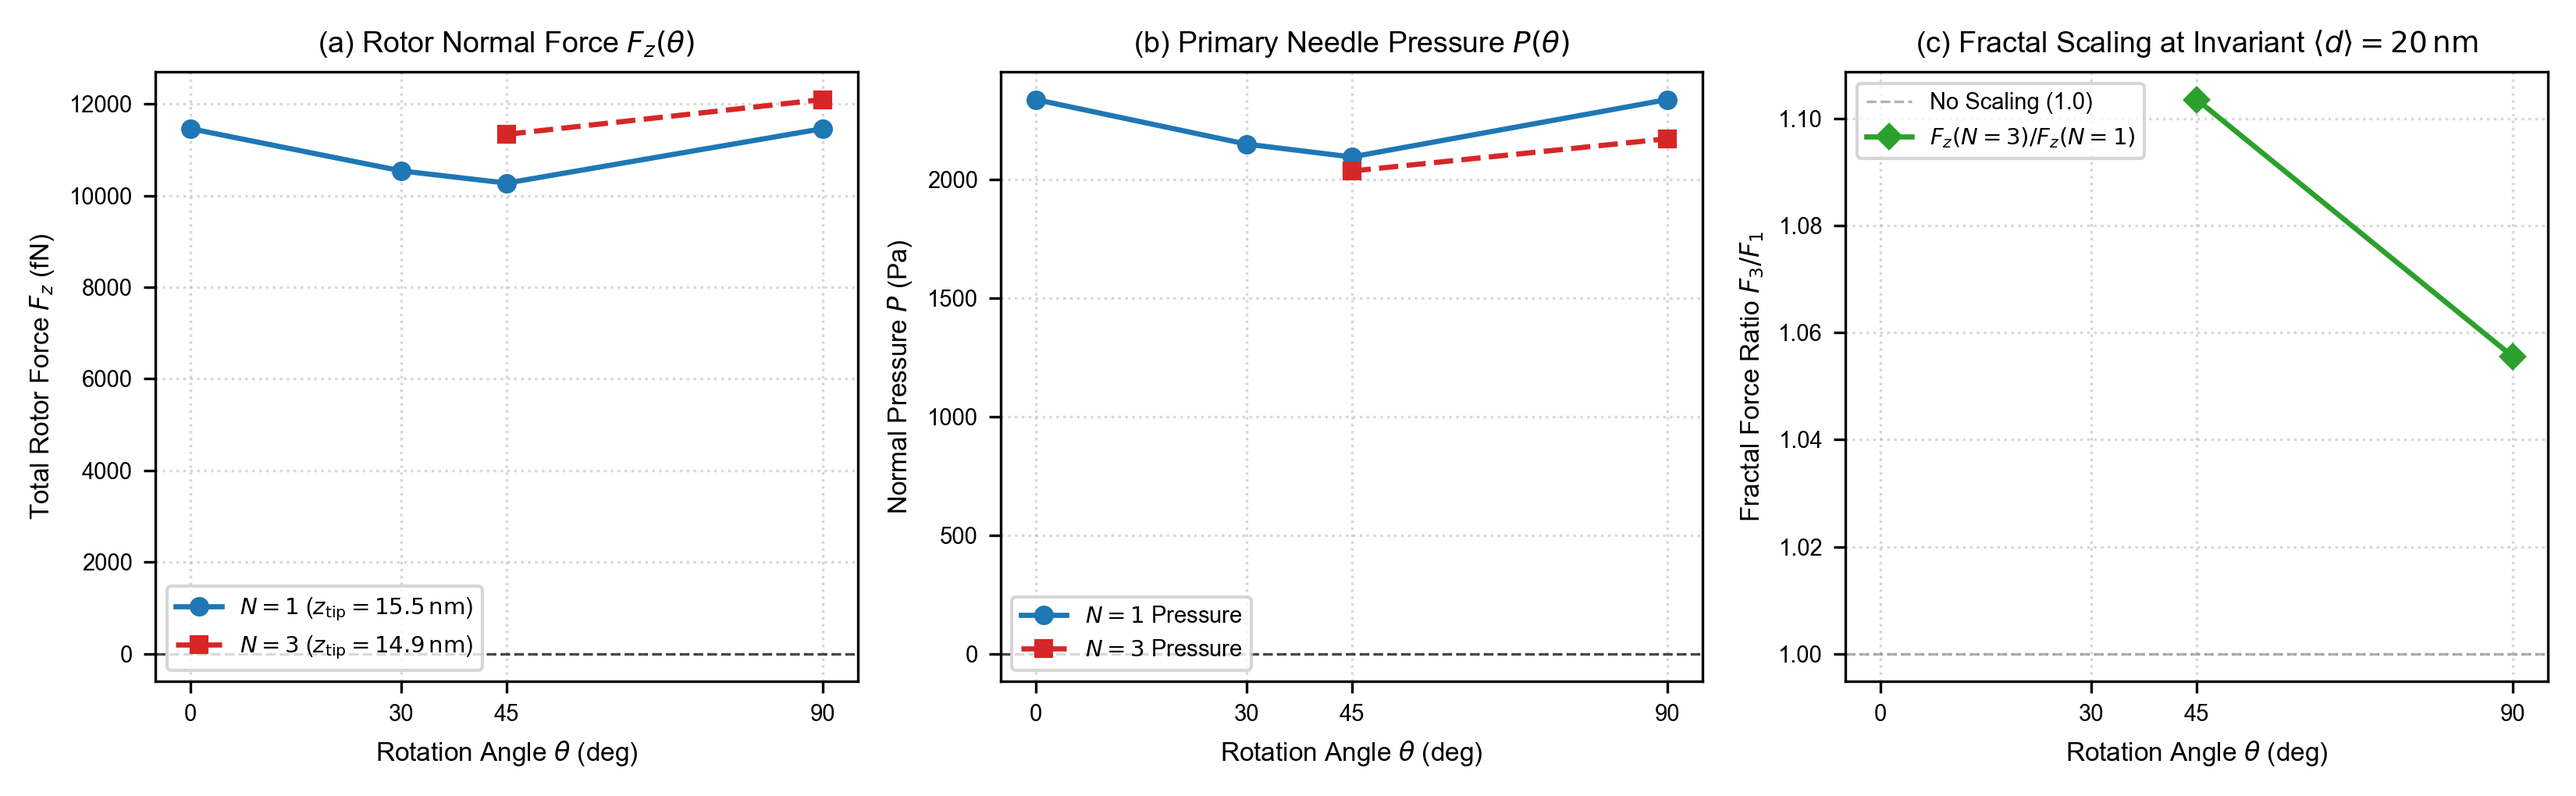
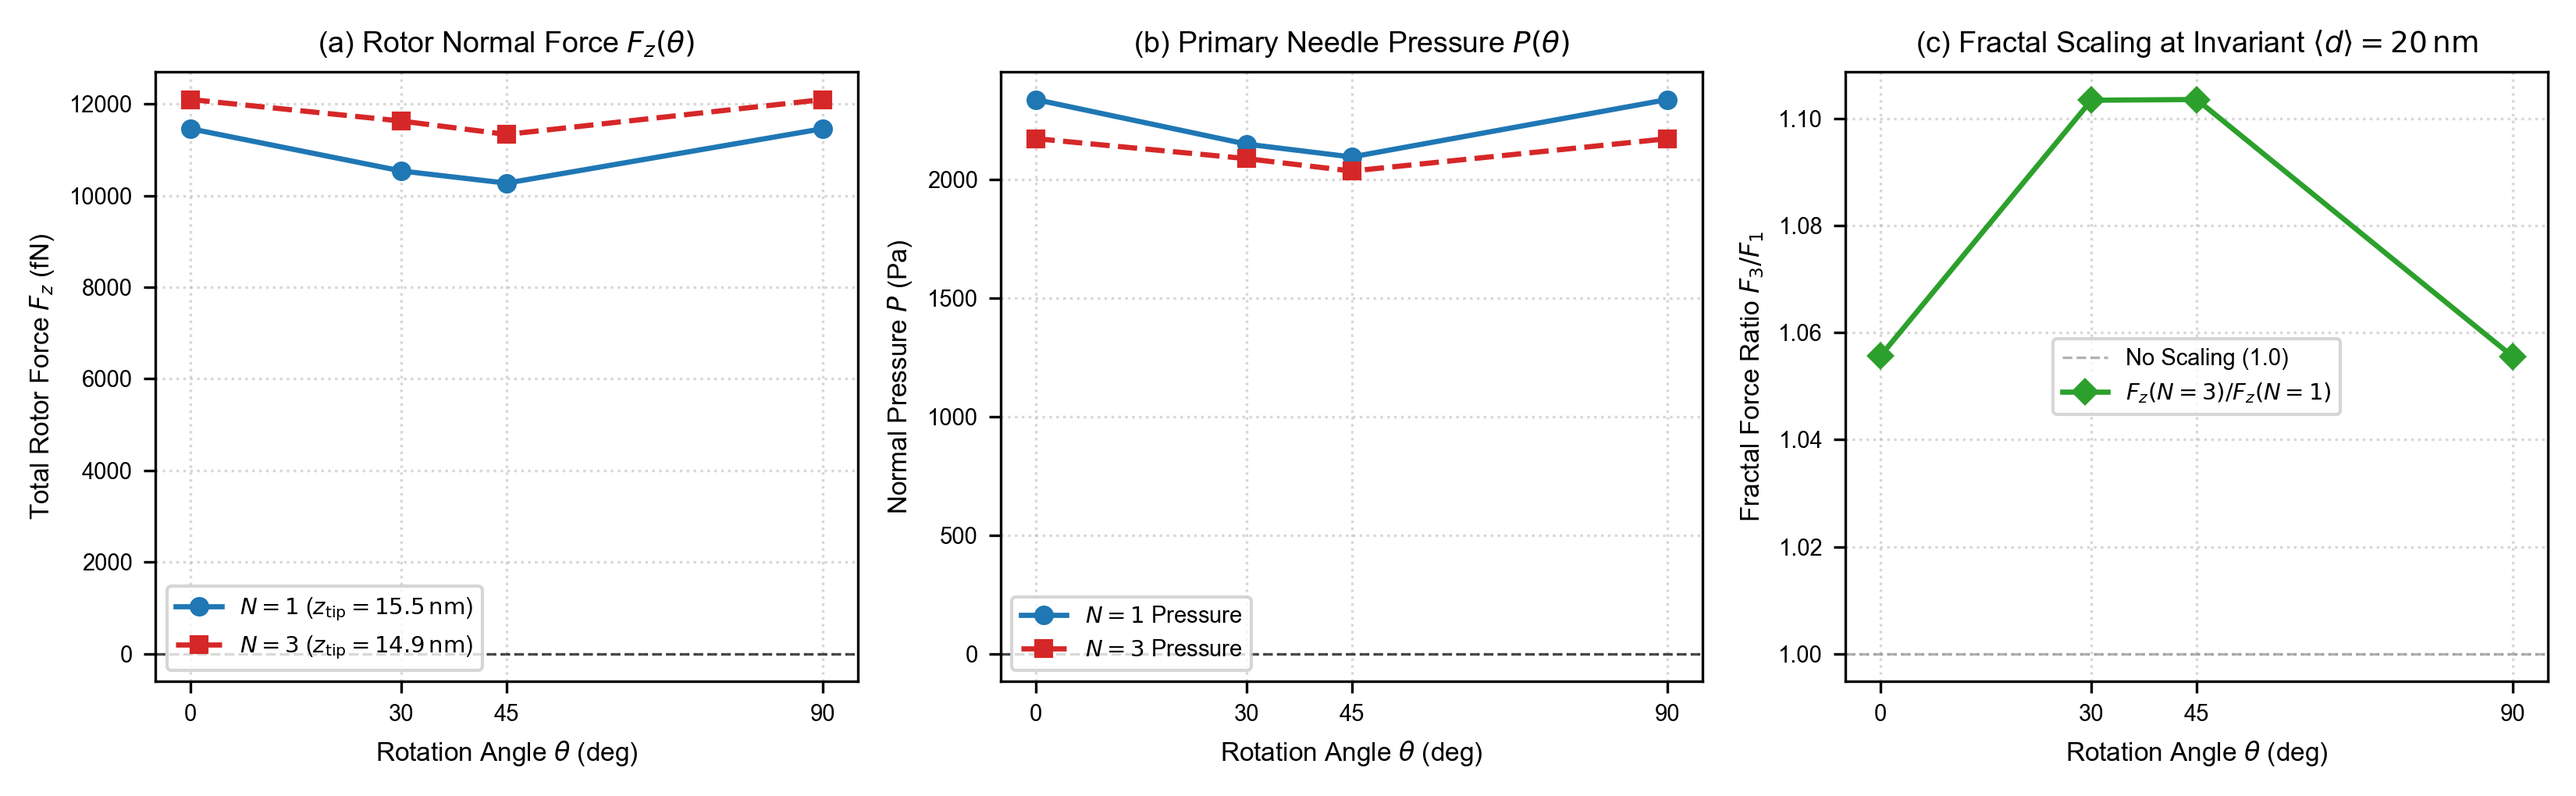
results(fractal_clutch): finalize complete 8-task suite (N=1 vs N=3) summary, LaTeX table, and publication figure

diff --git a/results_fractal_rotary_clutch/table_fractal_clutch.tex b/results_fractal_rotary_clutch/table_fractal_clutch.tex
@@ -10,6 +10,8 @@ Task & Gen $N$ & $\theta$ (deg) & $z_{\text{tip}}$ (nm) & $\langle d \rangle$ (n
 2 & 1 & 30.0 & 15.55 & 20.0 & +10538.79 & +2.15e+03 & Levitating (Repulsive) \\
 3 & 1 & 45.0 & 15.55 & 20.0 & +10272.50 & +2.10e+03 & Levitating (Repulsive) \\
 4 & 1 & 90.0 & 15.55 & 20.0 & +11460.55 & +2.34e+03 & Levitating (Repulsive) \\
+5 & 3 & 0.0 & 14.94 & 20.0 & +12098.46 & +2.17e+03 & Levitating (Repulsive) \\
+6 & 3 & 30.0 & 14.94 & 20.0 & +11628.75 & +2.09e+03 & Levitating (Repulsive) \\
 7 & 3 & 45.0 & 14.94 & 20.0 & +11336.34 & +2.04e+03 & Levitating (Repulsive) \\
 8 & 3 & 90.0 & 14.94 & 20.0 & +12096.87 & +2.17e+03 & Levitating (Repulsive) \\
 \hline\hline
